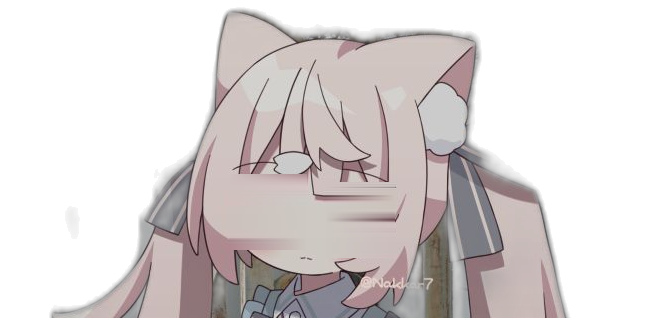
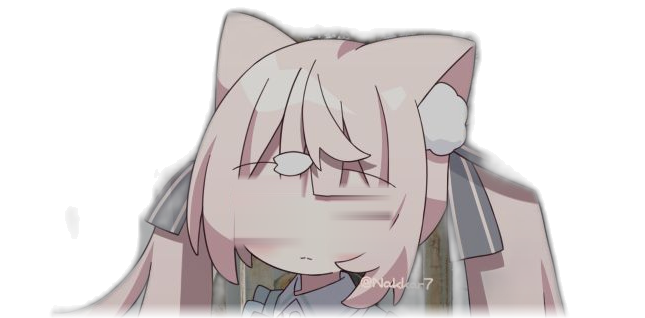
fix(T18): 资产级羽化，消除白底下的"贴图感"（反馈 4 第二步）
- fill_patch v2：边界颜色改用中位数采样（睫毛/刘海不再把填充带暗），
  并把替换后的 RGB 向原始边界像素羽化 6px —— 消除眼底修补块在浅色桌面上显形的硬边
  （用户截图里那道横跨脸颊的灰带正是旧版修补块的底边）
- 新增 feather_border：eyeL/eyeR 外圈 4px alpha 羽化，眼睛矩形层与脸部皮肤自然融合
- 新增 feather_bottom：head 层底边 14px alpha 羽化，减轻头/身 615..640 重叠带的硬边
- 重切后仅 head/eyeL/eyeR 变化，body/tail 逐字节不变
- 白底对照图：预览_改前_脸.png / 预览_改后_脸.png（已人工比对：灰带消失）

diff --git a/tools/slice.py b/tools/slice.py
@@ -33,19 +33,57 @@ ROOT = Path(__file__).resolve().parent.parent
 ASSETS = ROOT / "mypet" / "assets"
 
 
-def fill_patch(arr: np.ndarray, rect: list[int]) -> None:
-    """Fill rect with a per-row horizontal gradient from border pixels."""
+def fill_patch(arr: np.ndarray, rect: list[int], feather: int = 6) -> None:
+    """Fill rect with a smooth skin-toned gradient (v2).
+
+    v2 changes vs the first version:
+      * border colours are sampled with a MEDIAN over a wider band, so lashes /
+        bangs at the patch edge no longer darken the fill;
+      * the replacement RGB is feathered into the original border pixels, which
+        removes the visible hard-edged rectangle that showed on light desktops.
+    """
     x0, y0, x1, y1 = rect
     h, w = y1 - y0, x1 - x0
     if h <= 0 or w <= 0:
         return
-    left = arr[y0:y1, max(x0 - 2, 0):x0, :3].mean(axis=1)   # (h, 3)
-    right = arr[y0:y1, x1:min(x1 + 2, arr.shape[1]), :3].mean(axis=1)
-    t = np.linspace(0.0, 1.0, w, dtype=np.float32)[None, :, None]  # (1,w,1)
+    band = 4
+    left = np.median(arr[y0:y1, max(x0 - band, 0):x0, :3], axis=1)
+    right = np.median(arr[y0:y1, x1:min(x1 + band, arr.shape[1]), :3], axis=1)
+    t = np.linspace(0.0, 1.0, w, dtype=np.float32)[None, :, None]
     grad = left[:, None, :] * (1 - t) + right[:, None, :] * t
     region = arr[y0:y1, x0:x1]
-    region[:, :, :3] = np.clip(grad, 0, 255).astype(np.uint8)
+    original = region[:, :, :3].astype(np.float32).copy()
+    filled = np.clip(grad, 0, 255).astype(np.float32)
+    fx = np.minimum(np.arange(w), np.arange(w)[::-1]).astype(np.float32)
+    fy = np.minimum(np.arange(h), np.arange(h)[::-1]).astype(np.float32)
+    dist = np.minimum(fx[None, :], fy[:, None])
+    ramp = np.clip(dist / float(feather), 0.0, 1.0)[:, :, None]
+    region[:, :, :3] = (filled * ramp + original * (1.0 - ramp)).astype(np.uint8)
     region[:, :, 3] = 255
+
+
+def feather_border(piece: np.ndarray, px: int = 4) -> None:
+    """Ramp alpha down over the outermost px pixels (eye layers blend into the face)."""
+    h, w = piece.shape[:2]
+    a = piece[:, :, 3].astype(np.float32)
+    ramp = np.ones((h, w), dtype=np.float32)
+    for i in range(px):
+        f = (i + 1) / float(px + 1)
+        ramp[i, :] = np.minimum(ramp[i, :], f)
+        ramp[h - 1 - i, :] = np.minimum(ramp[h - 1 - i, :], f)
+        ramp[:, i] = np.minimum(ramp[:, i], f)
+        ramp[:, w - 1 - i] = np.minimum(ramp[:, w - 1 - i], f)
+    piece[:, :, 3] = np.clip(a * ramp, 0, 255).astype(np.uint8)
+
+
+def feather_bottom(piece: np.ndarray, px: int = 14) -> None:
+    """Fade the bottom edge so the head/body collar overlap shows no hard line."""
+    h = piece.shape[0]
+    a = piece[:, :, 3].astype(np.float32)
+    ramp = np.ones(h, dtype=np.float32)
+    for i in range(px):
+        ramp[h - 1 - i] = (i + 1) / float(px + 1)
+    piece[:, :, 3] = np.clip(a * ramp[:, None], 0, 255).astype(np.uint8)
 
 
 def erase_color_mask(piece: np.ndarray, rect: list[int], pred: str,
@@ -110,6 +148,10 @@ def main() -> int:
                 piece, mask_cfg["rect"], mask_cfg.get("pred", "pink"),
                 int(mask_cfg.get("dilate", 2)), (x0, y0),
             )
+        if layer["name"] in ("eyeL", "eyeR"):
+            feather_border(piece, 4)
+        elif layer["name"] == "head":
+            feather_bottom(piece, 14)
         out = out_dir / f"{layer['name']}.png"
         Image.fromarray(piece, "RGBA").save(out)
         print(f"[slice] {out.name:<12} crop=({x0},{y0})-({x1},{y1}) {x1-x0}x{y1-y0}")
